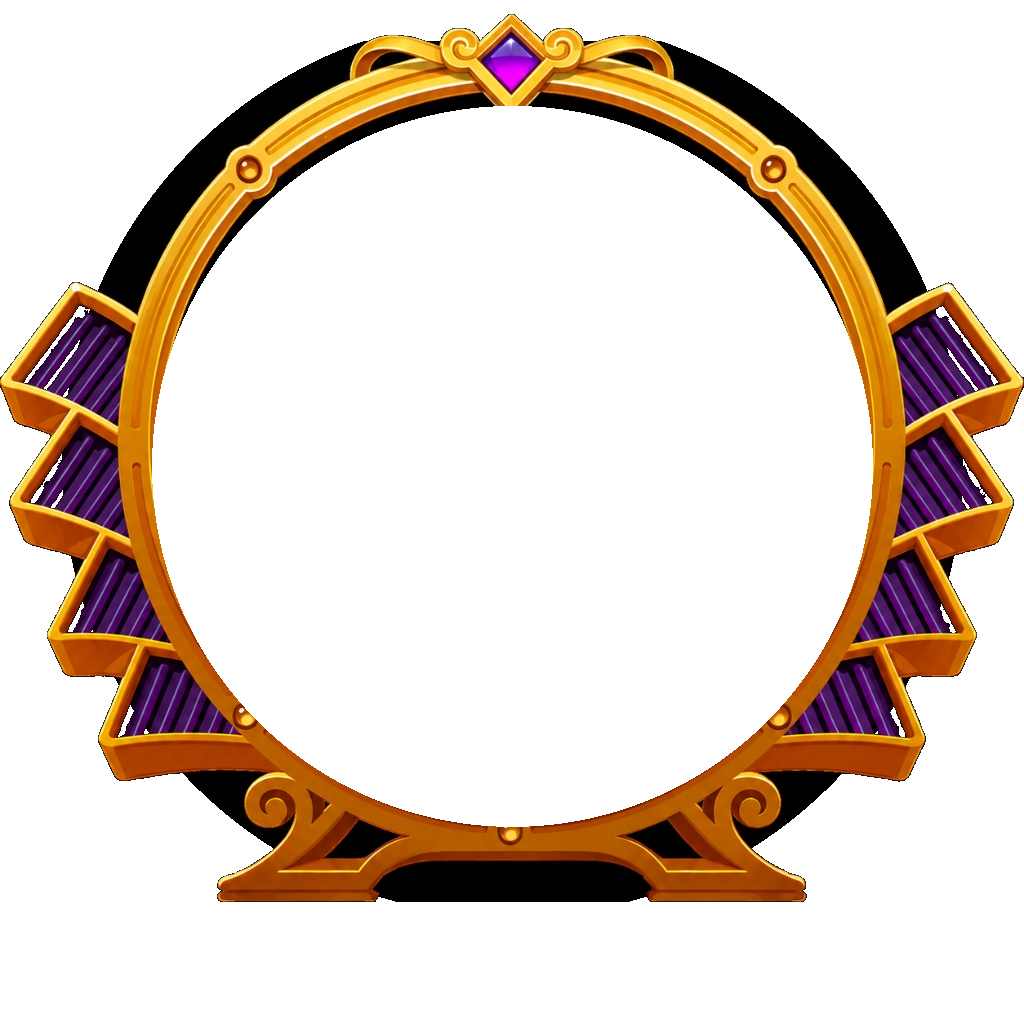
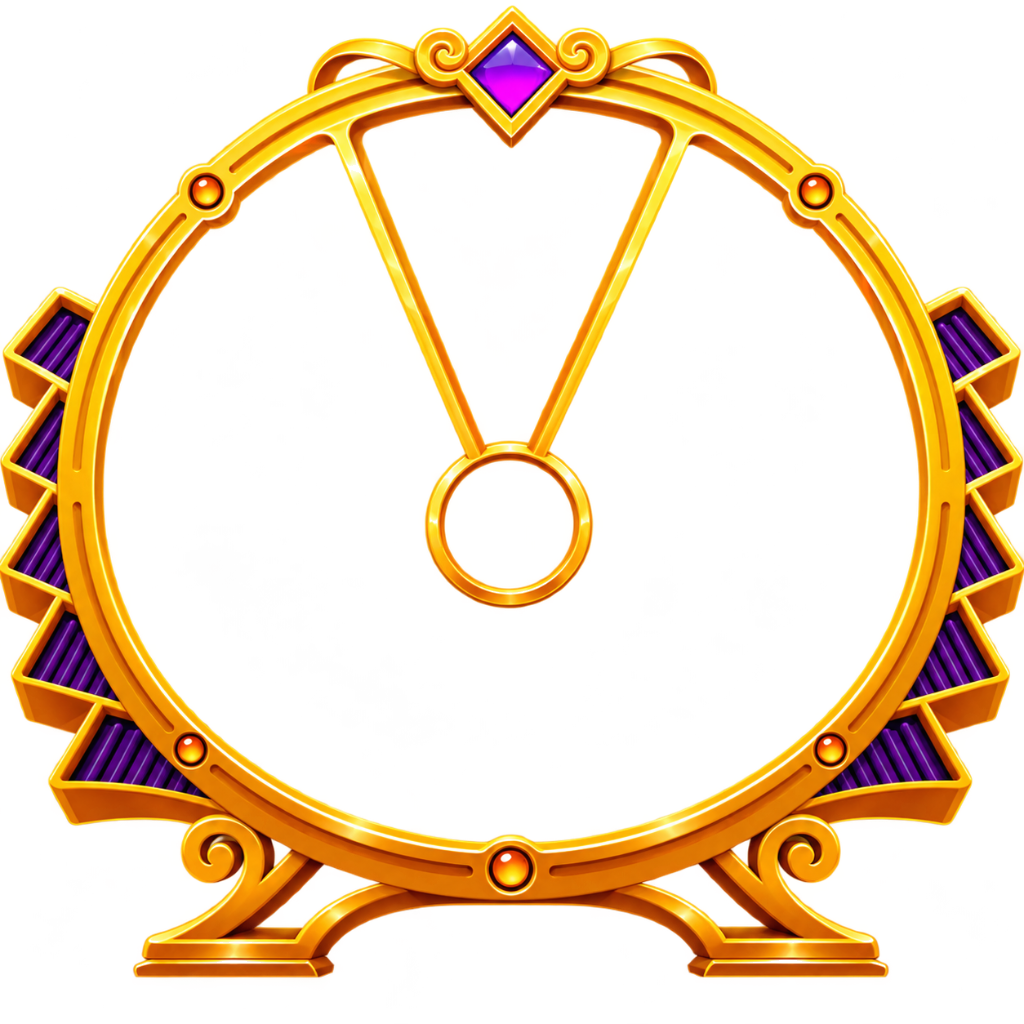
Set new complete golden frame image with built-in pointer and centered countdown timer

diff --git a/public/style.css b/public/style.css
@@ -547,18 +547,9 @@ body {
   overflow: visible;
 }
 
-/* Deluxe 3D Pointer Pin on Top of Sector (تنزيل سهم التوقف بوضوح على القطاع) */
+/* Deluxe 3D Pointer Pin (المؤشر مدمج رسمياً داخل صورة الإطار الذهبي) */
 .wheel-pointer-deluxe {
-  position: absolute;
-  top: 7%;
-  left: 50%;
-  transform: translateX(-50%);
-  z-index: 40;
-  display: flex;
-  flex-direction: column;
-  align-items: center;
-  pointer-events: none;
-  filter: drop-shadow(0 4px 10px rgba(0, 0, 0, 0.9));
+  display: none !important;
 }
 
 /* User-Provided Deluxe 3D Fantasy Frame Image Overlay (تنسيق الإطار الماسي الجديد بدقة 100% بدون أي انقصاص) */
